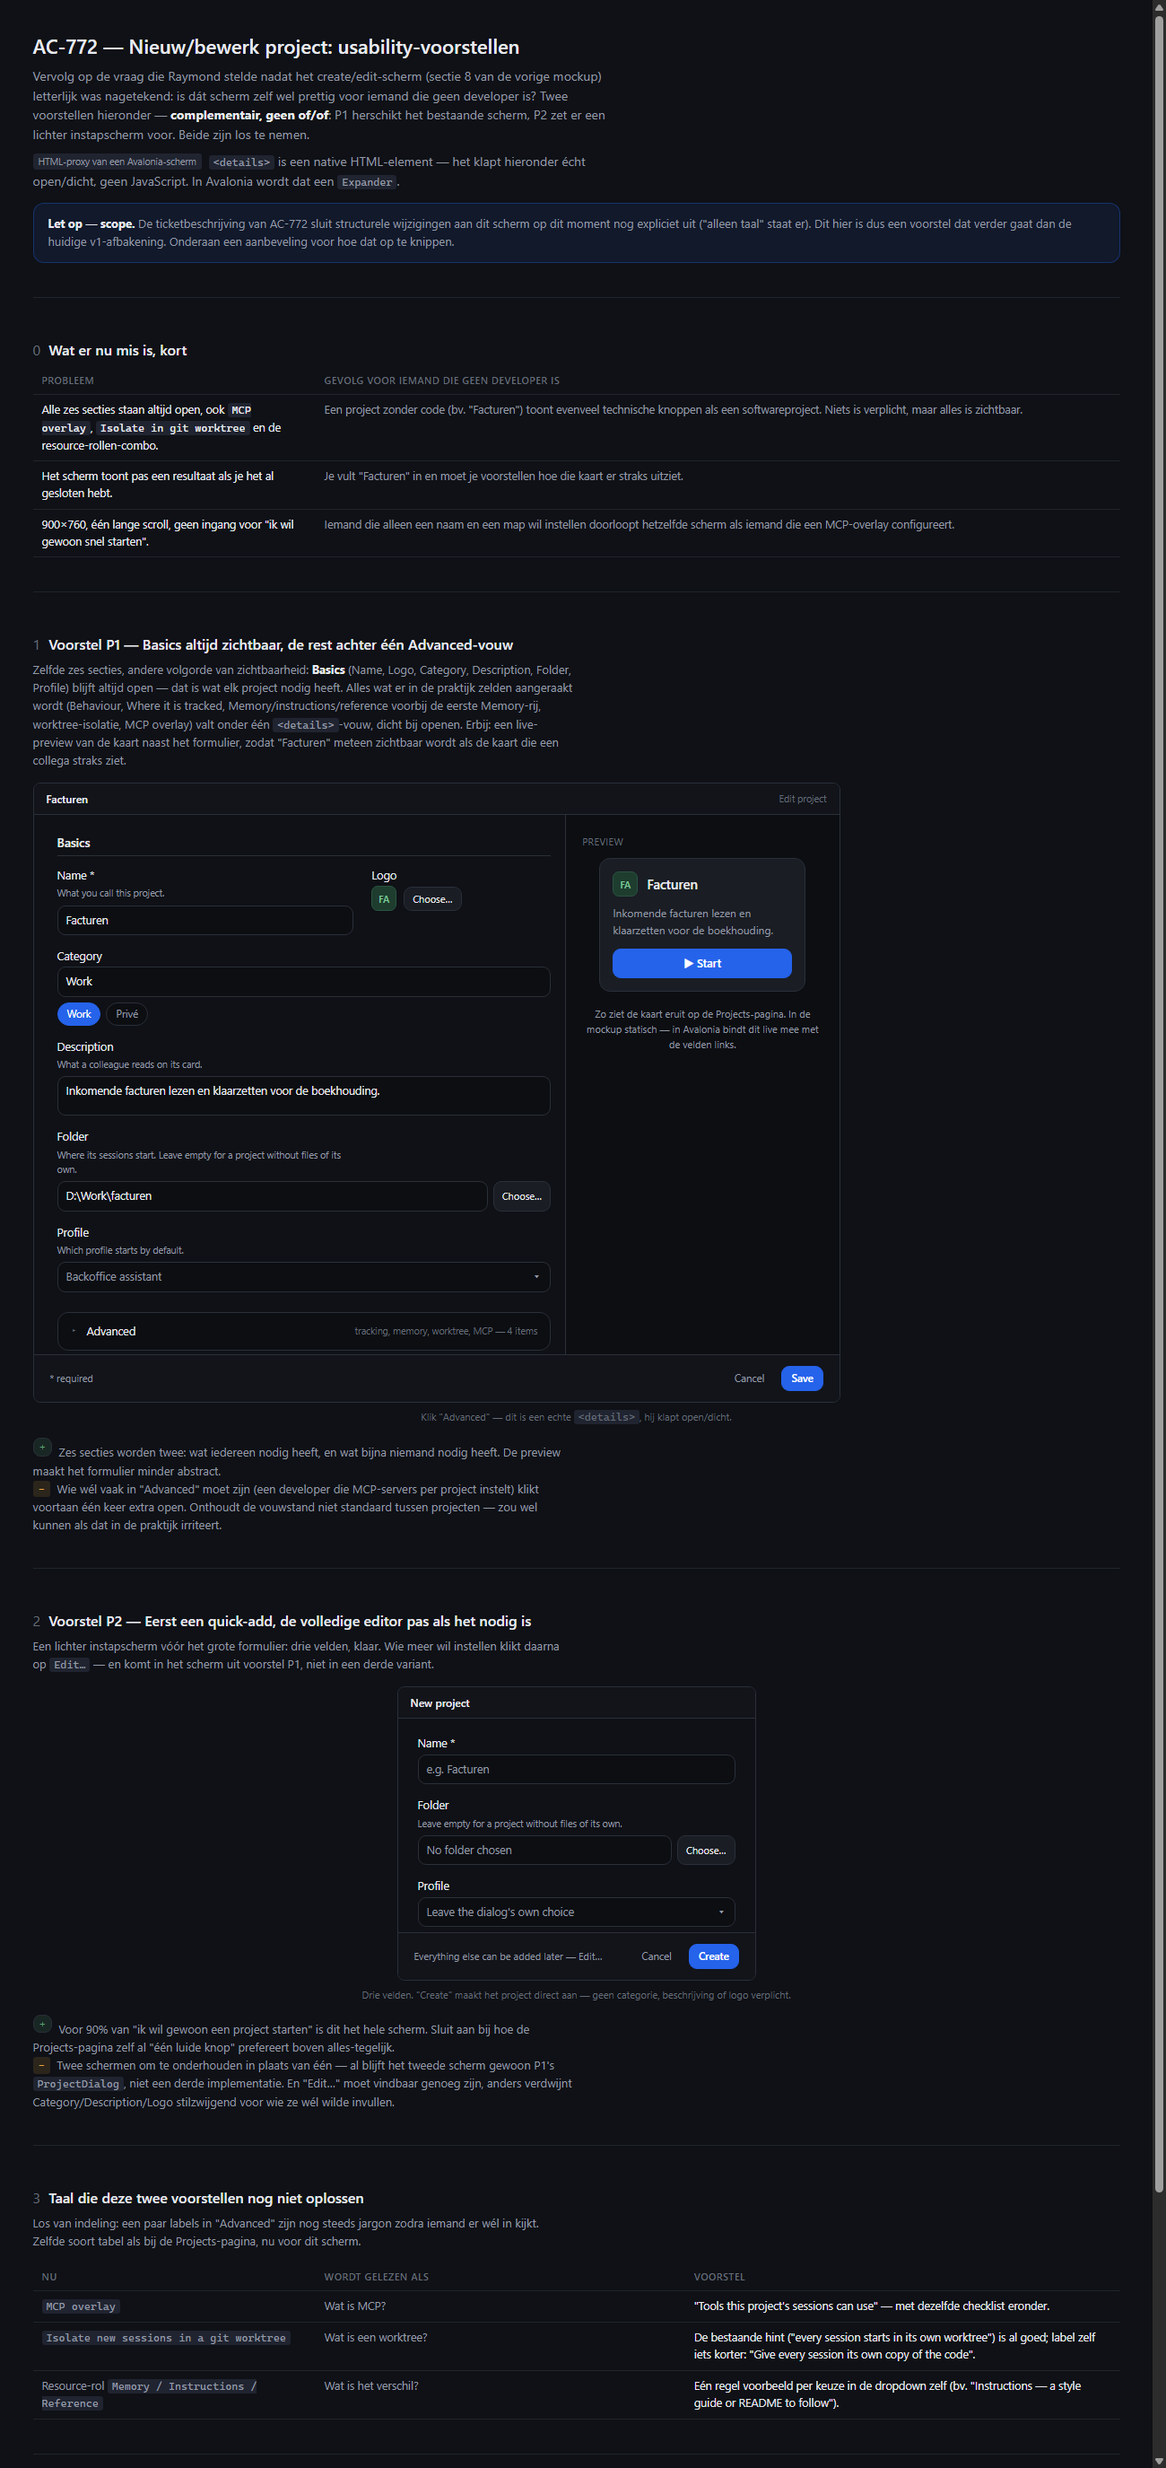
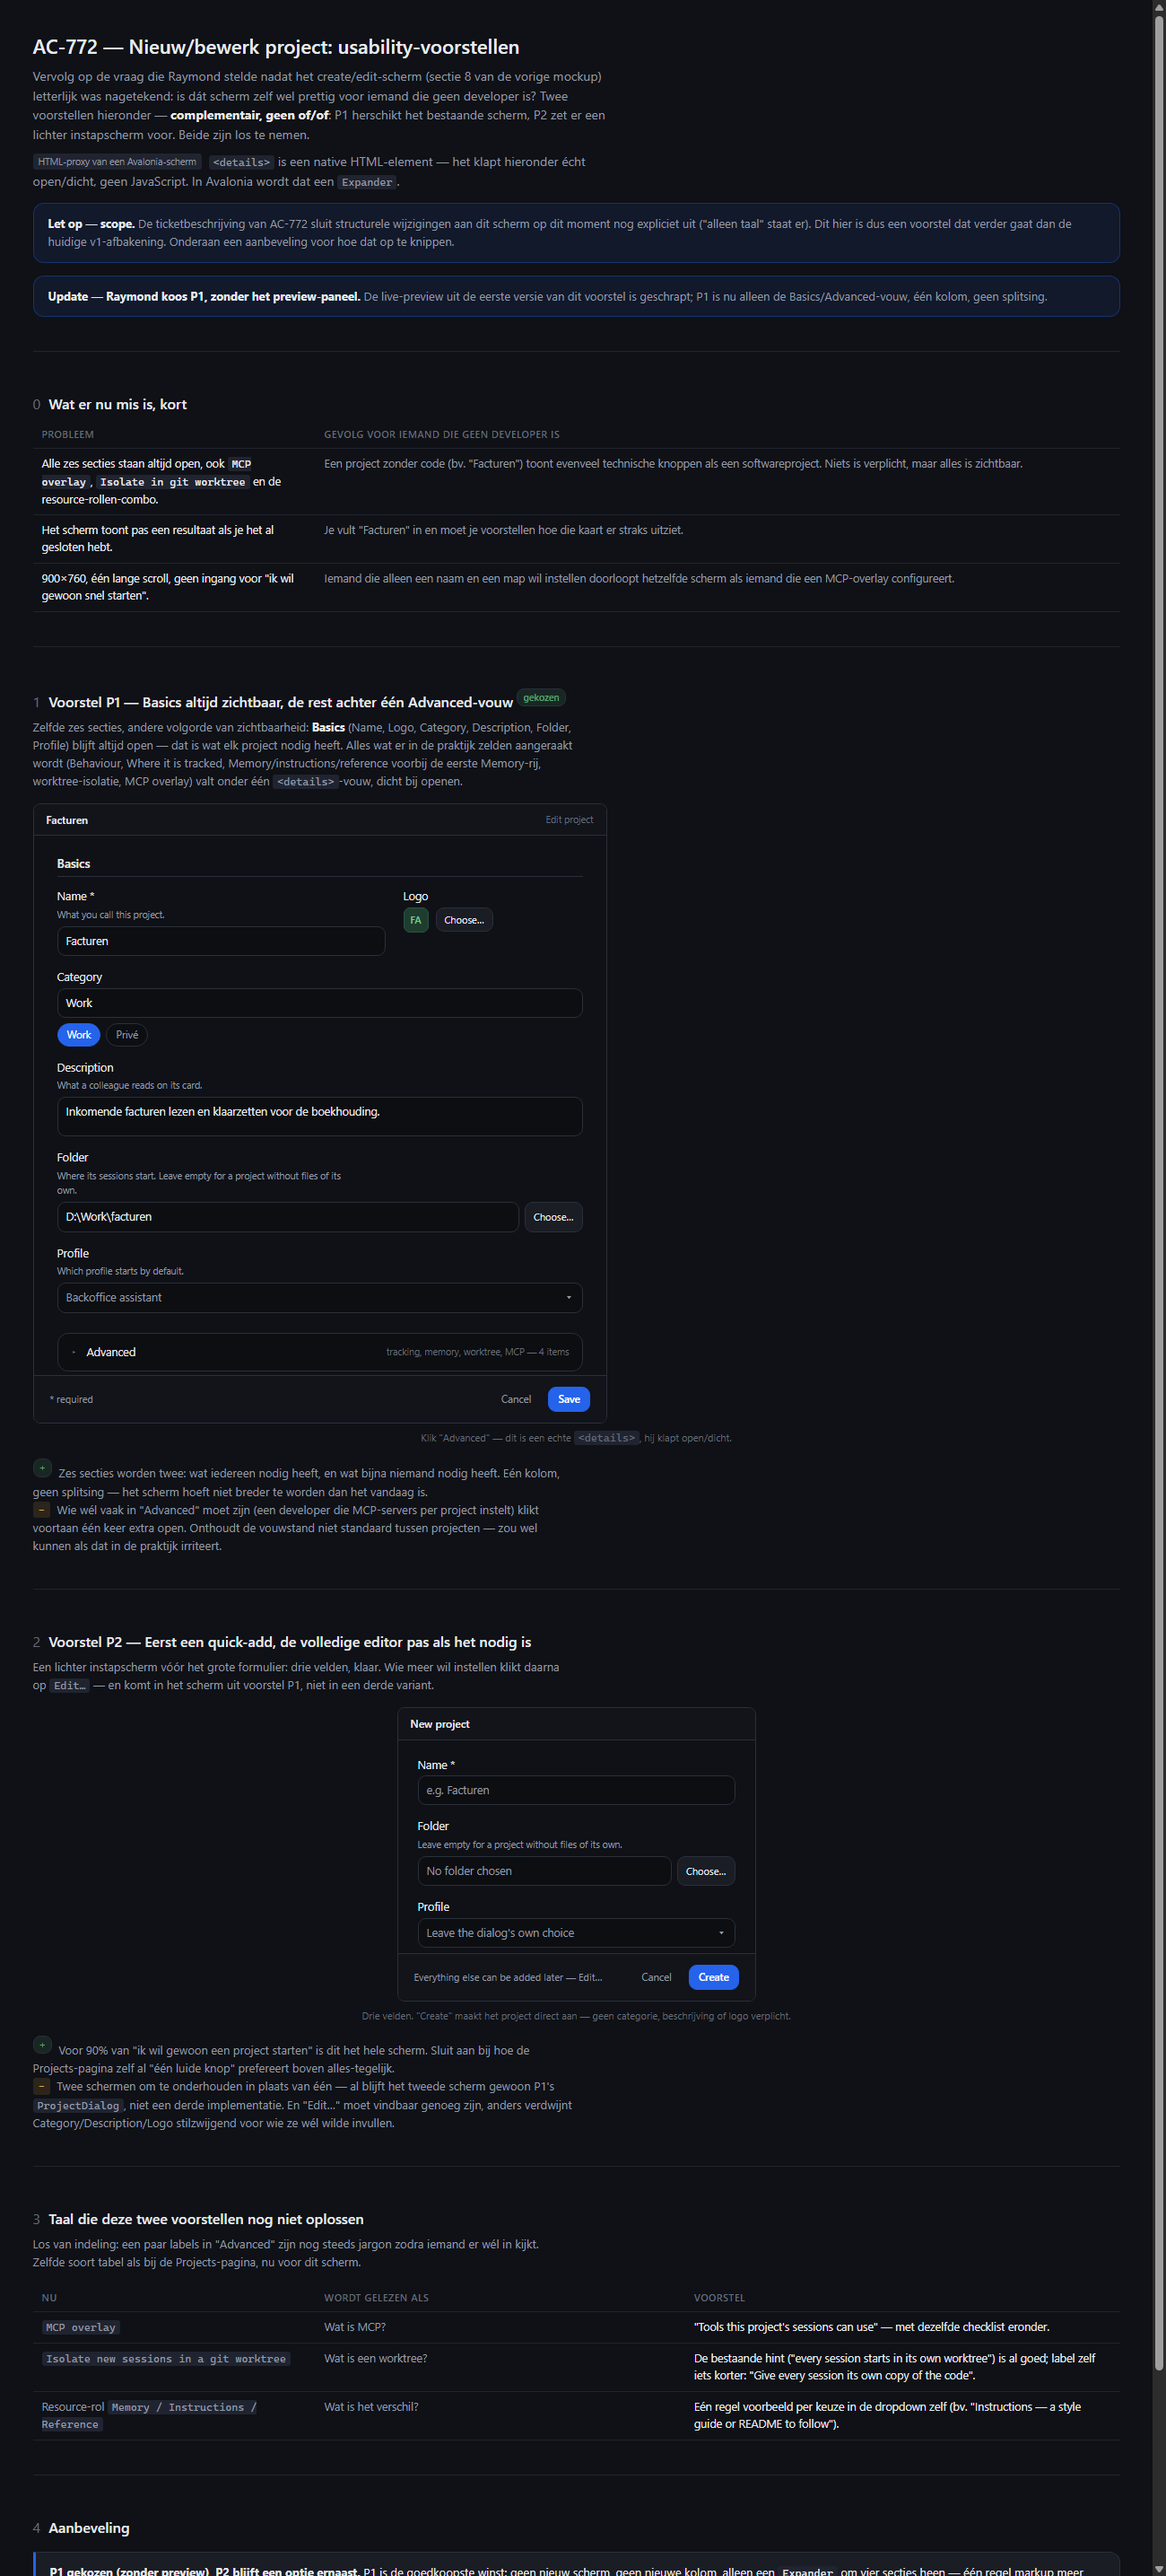
AC-772: drop the live preview from P1 (Raymond, verbal review)
P1 keeps just the Basics/Advanced split — the preview panel added
scope without Raymond asking for it. Single-column form again, no
split layout.

diff --git a/docs/mockups/ac-772-project-dialog-usability-2026-08-14.html b/docs/mockups/ac-772-project-dialog-usability-2026-08-14.html
@@ -100,20 +100,6 @@
   .btn.sm{padding:4px 10px;font-size:11.5px}
   .btn.tiny{padding:4px 9px;font-size:11px}
 
-  /* --- P1: split layout met live preview --- */
-  .split{display:flex;gap:0}
-  .split-form{flex:1 1 62%;min-width:0}
-  .split-preview{flex:0 0 34%;background:var(--secondary);border-left:1px solid var(--hairline);
-                 padding:22px 18px;display:flex;flex-direction:column;align-items:center;gap:10px}
-  .split-preview .pv-label{font-size:10.5px;color:var(--text-faint);text-transform:uppercase;
-                            letter-spacing:.05em;align-self:flex-start}
-  .card{width:100%;max-width:230px;background:var(--panel);border:1px solid var(--hairline);
-        border-radius:var(--panel-r);padding:14px}
-  .card-h{display:flex;align-items:center;gap:10px}
-  .card-n{font-size:14.5px;font-weight:600;flex:1;overflow:hidden;text-overflow:ellipsis;white-space:nowrap}
-  .card-d{font-size:12px;color:var(--text-2);margin:9px 0 0}
-  .btn.full{width:100%;margin-top:11px}
-
   /* --- native <details> als accordion — geen JS --- */
   details.advanced{border:1px solid var(--hairline);border-radius:var(--panel-r);background:var(--secondary);
                    padding:0;margin-top:4px}
@@ -147,6 +133,11 @@ native HTML-element — het klapt hieronder écht open/dicht, geen JavaScript. I
   v1-afbakening. Onderaan een aanbeveling voor hoe dat op te knippen.
 </div>
 
+<div class="banner">
+  <b>Update — Raymond koos P1, zonder het preview-paneel.</b> De live-preview uit de eerste versie van dit
+  voorstel is geschrapt; P1 is nu alleen de Basics/Advanced-vouw, één kolom, geen splitsing.
+</div>
+
 <hr>
 
 <h2><span class="n">0</span>Wat er nu mis is, kort</h2>
@@ -159,102 +150,85 @@ native HTML-element — het klapt hieronder écht open/dicht, geen JavaScript. I
 
 <hr>
 
-<h2><span class="n">1</span>Voorstel P1 — Basics altijd zichtbaar, de rest achter één Advanced-vouw</h2>
+<h2><span class="n">1</span>Voorstel P1 — Basics altijd zichtbaar, de rest achter één Advanced-vouw <span class="tag win">gekozen</span></h2>
 <p class="note">Zelfde zes secties, andere volgorde van zichtbaarheid: <b>Basics</b> (Name, Logo, Category,
 Description, Folder, Profile) blijft altijd open — dat is wat elk project nodig heeft. Alles wat er in de praktijk
 zelden aangeraakt wordt (Behaviour, Where it is tracked, Memory/instructions/reference voorbij de eerste
-Memory-rij, worktree-isolatie, MCP overlay) valt onder één <code>&lt;details&gt;</code>-vouw, dicht bij
-openen. Erbij: een live-preview van de kaart naast het formulier, zodat "Facturen" meteen zichtbaar wordt als de
-kaart die een collega straks ziet.</p>
+Memory-rij, worktree-isolatie, MCP overlay) valt onder één <code>&lt;details&gt;</code>-vouw, dicht bij openen.</p>
 
-<div class="win" style="max-width:900px">
+<div class="win" style="max-width:640px">
   <div class="win-title"><b>Facturen</b><span class="win-sub">Edit project</span></div>
-  <div class="split">
-    <div class="split-form">
-      <div class="fdlg" style="padding-right:16px">
-        <div class="fsec">
-          <div class="fsec-h">Basics</div><div class="fsec-hr"></div>
-          <div class="frow">
-            <div class="fcol">
-              <div class="flabel">Name *</div>
-              <div class="fhint">What you call this project.</div>
-              <div class="finput">Facturen</div>
-            </div>
-            <div class="fcol" style="flex:0 0 200px">
-              <div class="flabel">Logo</div>
-              <div style="display:flex;gap:8px;align-items:center">
-                <span class="logo g sm" style="display:flex;align-items:center;justify-content:center">FA</span>
-                <span class="btn tiny">Choose…</span>
-              </div>
-            </div>
-          </div>
-          <div class="fcol" style="margin-bottom:14px">
-            <div class="flabel">Category</div>
-            <div class="finput">Work</div>
-            <div class="chipset"><span class="fchip on">Work</span><span class="fchip">Privé</span></div>
-          </div>
-          <div class="fcol" style="margin-bottom:14px">
-            <div class="flabel">Description</div>
-            <div class="fhint">What a colleague reads on its card.</div>
-            <div class="finput area">Inkomende facturen lezen en klaarzetten voor de boekhouding.</div>
-          </div>
-          <div class="fcol" style="margin-bottom:14px">
-            <div class="flabel">Folder</div>
-            <div class="fhint">Where its sessions start. Leave empty for a project without files of its own.</div>
-            <div style="display:flex;gap:6px">
-              <div class="finput" style="flex:1">D:\Work\facturen</div>
-              <span class="btn tiny">Choose…</span>
-            </div>
-          </div>
-          <div class="fcol">
-            <div class="flabel">Profile</div>
-            <div class="fhint">Which profile starts by default.</div>
-            <div class="fselect">Backoffice assistant<span>▾</span></div>
+  <div class="fdlg">
+    <div class="fsec">
+      <div class="fsec-h">Basics</div><div class="fsec-hr"></div>
+      <div class="frow">
+        <div class="fcol">
+          <div class="flabel">Name *</div>
+          <div class="fhint">What you call this project.</div>
+          <div class="finput">Facturen</div>
+        </div>
+        <div class="fcol" style="flex:0 0 200px">
+          <div class="flabel">Logo</div>
+          <div style="display:flex;gap:8px;align-items:center">
+            <span class="logo g sm" style="display:flex;align-items:center;justify-content:center">FA</span>
+            <span class="btn tiny">Choose…</span>
           </div>
         </div>
-
-        <details class="advanced">
-          <summary>Advanced <span class="adv-count">tracking, memory, worktree, MCP — 4 items</span></summary>
-          <div class="adv-body">
-            <div class="fsec" style="margin-top:8px">
-              <div class="flabel">Behaviour</div>
-              <div class="fhint">Optional — how should the profile behave here?</div>
-              <div class="finput area">Controleer BTW-nummers voordat je een factuur goedkeurt.</div>
-            </div>
-            <div class="fsec">
-              <div class="flabel">Where it is tracked</div>
-              <div class="fselect">AC — AI-Cockpit<span>▾</span></div>
-            </div>
-            <div class="fsec">
-              <div class="flabel">Memory, instructions and reference <span class="origin shared">◆ Shared</span></div>
-              <div class="fselect" style="max-width:220px;margin-bottom:4px">Depot <span>▾</span></div>
-              <div class="finput">depot:cockpit</div>
-              <span class="btn tiny" style="margin-top:6px">+ Add row</span>
-            </div>
-            <div class="fsec">
-              <span class="checkline" style="font-size:12px"><span class="bx"></span>Isolate new sessions in a git worktree</span>
-            </div>
-            <div class="fsec" style="margin-bottom:0">
-              <div class="flabel">MCP overlay</div>
-              <div class="mcprow"><span class="checkline"><span class="bx on"></span>filesystem</span></div>
-              <div class="mcprow"><span class="checkline"><span class="bx on"></span>youtrack</span></div>
-              <div class="mcprow"><span class="checkline"><span class="bx"></span>docker</span></div>
-            </div>
-          </div>
-        </details>
+      </div>
+      <div class="fcol" style="margin-bottom:14px">
+        <div class="flabel">Category</div>
+        <div class="finput">Work</div>
+        <div class="chipset"><span class="fchip on">Work</span><span class="fchip">Privé</span></div>
+      </div>
+      <div class="fcol" style="margin-bottom:14px">
+        <div class="flabel">Description</div>
+        <div class="fhint">What a colleague reads on its card.</div>
+        <div class="finput area">Inkomende facturen lezen en klaarzetten voor de boekhouding.</div>
+      </div>
+      <div class="fcol" style="margin-bottom:14px">
+        <div class="flabel">Folder</div>
+        <div class="fhint">Where its sessions start. Leave empty for a project without files of its own.</div>
+        <div style="display:flex;gap:6px">
+          <div class="finput" style="flex:1">D:\Work\facturen</div>
+          <span class="btn tiny">Choose…</span>
+        </div>
+      </div>
+      <div class="fcol">
+        <div class="flabel">Profile</div>
+        <div class="fhint">Which profile starts by default.</div>
+        <div class="fselect">Backoffice assistant<span>▾</span></div>
       </div>
     </div>
 
-    <div class="split-preview">
-      <span class="pv-label">Preview</span>
-      <div class="card">
-        <div class="card-h"><span class="logo g sm" style="display:flex;align-items:center;justify-content:center">FA</span><span class="card-n">Facturen</span></div>
-        <p class="card-d">Inkomende facturen lezen en klaarzetten voor de boekhouding.</p>
-        <span class="btn p full">▶ Start</span>
+    <details class="advanced">
+      <summary>Advanced <span class="adv-count">tracking, memory, worktree, MCP — 4 items</span></summary>
+      <div class="adv-body">
+        <div class="fsec" style="margin-top:8px">
+          <div class="flabel">Behaviour</div>
+          <div class="fhint">Optional — how should the profile behave here?</div>
+          <div class="finput area">Controleer BTW-nummers voordat je een factuur goedkeurt.</div>
+        </div>
+        <div class="fsec">
+          <div class="flabel">Where it is tracked</div>
+          <div class="fselect">AC — AI-Cockpit<span>▾</span></div>
+        </div>
+        <div class="fsec">
+          <div class="flabel">Memory, instructions and reference <span class="origin shared">◆ Shared</span></div>
+          <div class="fselect" style="max-width:220px;margin-bottom:4px">Depot <span>▾</span></div>
+          <div class="finput">depot:cockpit</div>
+          <span class="btn tiny" style="margin-top:6px">+ Add row</span>
+        </div>
+        <div class="fsec">
+          <span class="checkline" style="font-size:12px"><span class="bx"></span>Isolate new sessions in a git worktree</span>
+        </div>
+        <div class="fsec" style="margin-bottom:0">
+          <div class="flabel">MCP overlay</div>
+          <div class="mcprow"><span class="checkline"><span class="bx on"></span>filesystem</span></div>
+          <div class="mcprow"><span class="checkline"><span class="bx on"></span>youtrack</span></div>
+          <div class="mcprow"><span class="checkline"><span class="bx"></span>docker</span></div>
+        </div>
       </div>
-      <p class="note" style="text-align:center;font-size:11px;margin:6px 0 0">Zo ziet de kaart eruit op de
-      Projects-pagina. In de mockup statisch — in Avalonia bindt dit live mee met de velden links.</p>
-    </div>
+    </details>
   </div>
   <div class="footer">
     <span style="font-size:11px;color:var(--text-2)">* required</span>
@@ -263,7 +237,8 @@ kaart die een collega straks ziet.</p>
 </div>
 <p class="cap">Klik "Advanced" — dit is een echte <code>&lt;details&gt;</code>, hij klapt open/dicht.</p>
 <p class="note" style="margin-top:14px"><span class="tag win">+</span> Zes secties worden twee: wat iedereen
-nodig heeft, en wat bijna niemand nodig heeft. De preview maakt het formulier minder abstract.<br>
+nodig heeft, en wat bijna niemand nodig heeft. Eén kolom, geen splitsing — het scherm hoeft niet breder te worden
+dan het vandaag is.<br>
 <span class="tag cost">−</span> Wie wél vaak in "Advanced" moet zijn (een developer die MCP-servers per project
 instelt) klikt voortaan één keer extra open. Onthoudt de vouwstand niet standaard tussen projecten — zou wel
 kunnen als dat in de praktijk irriteert.</p>
@@ -322,10 +297,10 @@ kijkt. Zelfde soort tabel als bij de Projects-pagina, nu voor dit scherm.</p>
 
 <h2><span class="n">4</span>Aanbeveling</h2>
 <div class="verdict">
-  <b>Beide, en beide zijn klein genoeg om los te leveren.</b> P1 (Basics/Advanced + preview) is de goedkoopste
-  winst: geen nieuw scherm, alleen een <code>Expander</code> om vier secties heen en een preview-paneel dat het
-  bestaande kaart-uiterlijk hergebruikt. P2 (quick-add) is een nieuw, klein venster maar hooguit 60 regels AXAML —
-  het roept gewoon het bestaande <code>ProjectDialogViewModel</code> aan met minder velden zichtbaar, geen nieuwe
+  <b>P1 gekozen (zonder preview), P2 blijft een optie ernaast.</b> P1 is de goedkoopste winst: geen nieuw scherm,
+  geen nieuwe kolom, alleen een <code>Expander</code> om vier secties heen — één regel markup meer dan het
+  bestaande scherm al had. P2 (quick-add) is een nieuw, klein venster maar hooguit 60 regels AXAML — het roept
+  gewoon het bestaande <code>ProjectDialogViewModel</code> aan met minder velden zichtbaar, geen nieuwe
   save-logica.
   <br><br>
   <b>Scope-voorstel:</b> dit hoort niet in AC-772's v1 (die sluit structurele wijzigingen aan dit scherm nu juist
